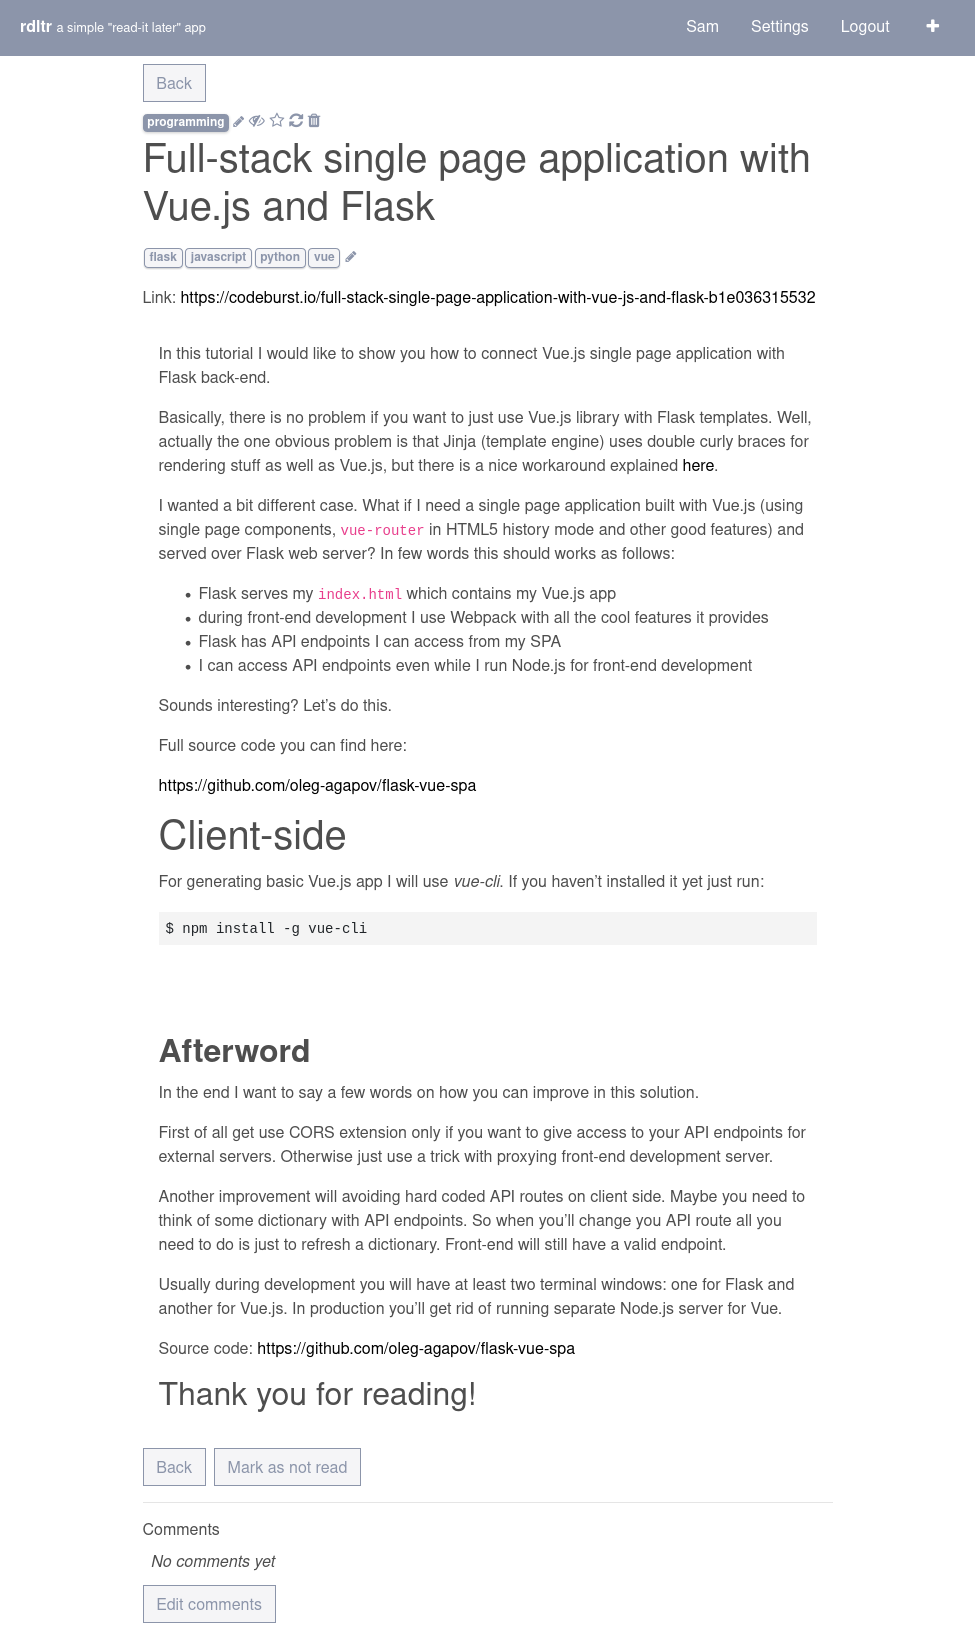
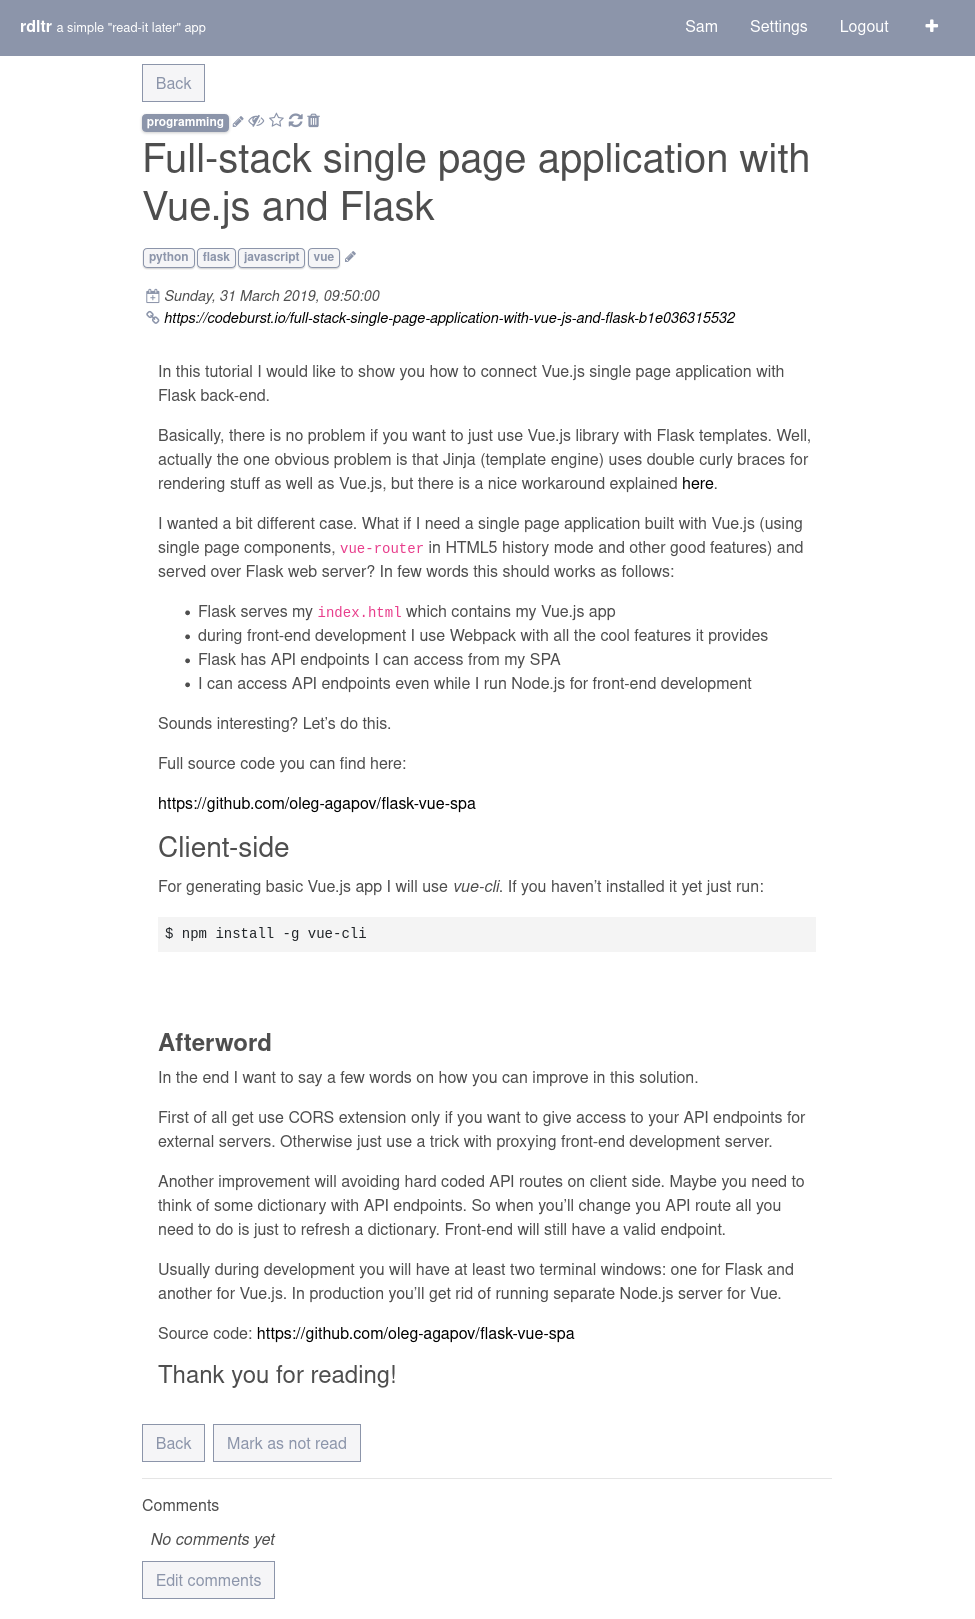
update documentation

diff --git a/docs/changelog.html b/docs/changelog.html
@@ -92,73 +92,80 @@
 <li class="toctree-l1"><a class="reference internal" href="features.html">Features</a></li>
 <li class="toctree-l1"><a class="reference internal" href="installation.html">Installation</a></li>
 <li class="toctree-l1 current"><a class="current reference internal" href="#">Changelog</a><ul>
-<li class="toctree-l2"><a class="reference internal" href="#version-0-1-10-2020-03-15">Version 0.1.10 (2020/03/15)</a><ul>
+<li class="toctree-l2"><a class="reference internal" href="#version-0-1-11-2020-12-26">Version 0.1.11 (2020/12/26)</a><ul>
 <li class="toctree-l3"><a class="reference internal" href="#issues-closed">Issues Closed</a><ul>
 <li class="toctree-l4"><a class="reference internal" href="#new-features">New Features</a></li>
 </ul>
 </li>
 </ul>
 </li>
-<li class="toctree-l2"><a class="reference internal" href="#version-0-1-9-2020-01-22">Version 0.1.9 (2020/01/22)</a><ul>
+<li class="toctree-l2"><a class="reference internal" href="#version-0-1-10-2020-03-15">Version 0.1.10 (2020/03/15)</a><ul>
 <li class="toctree-l3"><a class="reference internal" href="#id1">Issues Closed</a><ul>
 <li class="toctree-l4"><a class="reference internal" href="#id2">New Features</a></li>
+</ul>
+</li>
+</ul>
+</li>
+<li class="toctree-l2"><a class="reference internal" href="#version-0-1-9-2020-01-22">Version 0.1.9 (2020/01/22)</a><ul>
+<li class="toctree-l3"><a class="reference internal" href="#id3">Issues Closed</a><ul>
+<li class="toctree-l4"><a class="reference internal" href="#id4">New Features</a></li>
 <li class="toctree-l4"><a class="reference internal" href="#bugs-fixed">Bugs Fixed</a></li>
 </ul>
 </li>
 </ul>
 </li>
 <li class="toctree-l2"><a class="reference internal" href="#version-0-1-8-2020-01-20">Version 0.1.8 (2020/01/20)</a><ul>
-<li class="toctree-l3"><a class="reference internal" href="#id3">Issues Closed</a><ul>
-<li class="toctree-l4"><a class="reference internal" href="#id4">New Features</a></li>
+<li class="toctree-l3"><a class="reference internal" href="#id5">Issues Closed</a><ul>
+<li class="toctree-l4"><a class="reference internal" href="#id6">New Features</a></li>
 </ul>
 </li>
 </ul>
 </li>
 <li class="toctree-l2"><a class="reference internal" href="#version-0-1-7-2020-01-15">Version 0.1.7 (2020/01/15)</a><ul>
-<li class="toctree-l3"><a class="reference internal" href="#id5">Issues Closed</a><ul>
-<li class="toctree-l4"><a class="reference internal" href="#id6">New Features</a></li>
-<li class="toctree-l4"><a class="reference internal" href="#id7">Bugs Fixed</a></li>
+<li class="toctree-l3"><a class="reference internal" href="#id7">Issues Closed</a><ul>
+<li class="toctree-l4"><a class="reference internal" href="#id8">New Features</a></li>
+<li class="toctree-l4"><a class="reference internal" href="#id9">Bugs Fixed</a></li>
 </ul>
 </li>
 </ul>
 </li>
 <li class="toctree-l2"><a class="reference internal" href="#version-0-1-6-2020-01-10">Version 0.1.6 (2020/01/10)</a><ul>
-<li class="toctree-l3"><a class="reference internal" href="#id8">Issues Closed</a><ul>
-<li class="toctree-l4"><a class="reference internal" href="#id9">New Features</a></li>
+<li class="toctree-l3"><a class="reference internal" href="#id10">Issues Closed</a><ul>
+<li class="toctree-l4"><a class="reference internal" href="#id11">New Features</a></li>
 </ul>
 </li>
 </ul>
 </li>
 <li class="toctree-l2"><a class="reference internal" href="#version-0-1-5-2019-12-25">Version 0.1.5 (2019/12/25)</a><ul>
-<li class="toctree-l3"><a class="reference internal" href="#id10">Issues Closed</a><ul>
-<li class="toctree-l4"><a class="reference internal" href="#id11">New Features</a></li>
-<li class="toctree-l4"><a class="reference internal" href="#id12">Bugs Fixed</a></li>
+<li class="toctree-l3"><a class="reference internal" href="#id12">Issues Closed</a><ul>
+<li class="toctree-l4"><a class="reference internal" href="#id13">New Features</a></li>
+<li class="toctree-l4"><a class="reference internal" href="#id14">Bugs Fixed</a></li>
 </ul>
 </li>
 </ul>
 </li>
 <li class="toctree-l2"><a class="reference internal" href="#version-0-1-4-2019-12-08">Version 0.1.4 (2019/12/08)</a><ul>
-<li class="toctree-l3"><a class="reference internal" href="#id13">Issues Closed</a><ul>
-<li class="toctree-l4"><a class="reference internal" href="#id14">New Features</a></li>
-<li class="toctree-l4"><a class="reference internal" href="#id15">Bugs Fixed</a></li>
+<li class="toctree-l3"><a class="reference internal" href="#id15">Issues Closed</a><ul>
+<li class="toctree-l4"><a class="reference internal" href="#id16">New Features</a></li>
+<li class="toctree-l4"><a class="reference internal" href="#id17">Bugs Fixed</a></li>
 </ul>
 </li>
 </ul>
 </li>
 <li class="toctree-l2"><a class="reference internal" href="#version-0-1-3-2019-04-07">Version 0.1.3 (2019/04/07)</a><ul>
-<li class="toctree-l3"><a class="reference internal" href="#id16">Issues Closed</a><ul>
-<li class="toctree-l4"><a class="reference internal" href="#id17">New Features</a></li>
-<li class="toctree-l4"><a class="reference internal" href="#id18">Bugs Fixed</a></li>
+<li class="toctree-l3"><a class="reference internal" href="#id18">Issues Closed</a><ul>
+<li class="toctree-l4"><a class="reference internal" href="#id19">New Features</a></li>
+<li class="toctree-l4"><a class="reference internal" href="#id20">Bugs Fixed</a></li>
 </ul>
 </li>
 </ul>
 </li>
 <li class="toctree-l2"><a class="reference internal" href="#version-0-1-2-2019-03-31">Version 0.1.2 (2019/03/31)</a><ul>
-<li class="toctree-l3"><a class="reference internal" href="#id19">Bugs Fixed</a></li>
+<li class="toctree-l3"><a class="reference internal" href="#id21">Bugs Fixed</a></li>
 </ul>
 </li>
 <li class="toctree-l2"><a class="reference internal" href="#version-0-1-1-2019-03-30">Version 0.1.1 (2019/03/30)</a><ul>
-<li class="toctree-l3"><a class="reference internal" href="#id20">New Features</a></li>
+<li class="toctree-l3"><a class="reference internal" href="#id22">New Features</a></li>
 </ul>
 </li>
 <li class="toctree-l2"><a class="reference internal" href="#version-0-1-0-2019-03-30">Version 0.1.0 (2019/03/30)</a></li>
@@ -231,12 +238,25 @@
             
   <div class="section" id="changelog">
 <h1>Changelog<a class="headerlink" href="#changelog" title="Permalink to this headline">¶</a></h1>
-<div class="section" id="version-0-1-10-2020-03-15">
-<h2>Version 0.1.10 (2020/03/15)<a class="headerlink" href="#version-0-1-10-2020-03-15" title="Permalink to this headline">¶</a></h2>
+<div class="section" id="version-0-1-11-2020-12-26">
+<h2>Version 0.1.11 (2020/12/26)<a class="headerlink" href="#version-0-1-11-2020-12-26" title="Permalink to this headline">¶</a></h2>
 <div class="section" id="issues-closed">
 <h3>Issues Closed<a class="headerlink" href="#issues-closed" title="Permalink to this headline">¶</a></h3>
 <div class="section" id="new-features">
 <h4>New Features<a class="headerlink" href="#new-features" title="Permalink to this headline">¶</a></h4>
+<ul class="simple">
+<li><p><a class="reference external" href="https://github.com/SamR1/rdltr/issues/25">#25</a> - display article creation date</p></li>
+</ul>
+<p>In this release 1 issue was closed.</p>
+</div>
+</div>
+</div>
+<div class="section" id="version-0-1-10-2020-03-15">
+<h2>Version 0.1.10 (2020/03/15)<a class="headerlink" href="#version-0-1-10-2020-03-15" title="Permalink to this headline">¶</a></h2>
+<div class="section" id="id1">
+<h3>Issues Closed<a class="headerlink" href="#id1" title="Permalink to this headline">¶</a></h3>
+<div class="section" id="id2">
+<h4>New Features<a class="headerlink" href="#id2" title="Permalink to this headline">¶</a></h4>
 <ul class="simple">
 <li><p><a class="reference external" href="https://github.com/SamR1/rdltr/issues/21">#21</a> - remove tracking from article url</p></li>
 </ul>
@@ -246,10 +266,10 @@
 </div>
 <div class="section" id="version-0-1-9-2020-01-22">
 <h2>Version 0.1.9 (2020/01/22)<a class="headerlink" href="#version-0-1-9-2020-01-22" title="Permalink to this headline">¶</a></h2>
-<div class="section" id="id1">
-<h3>Issues Closed<a class="headerlink" href="#id1" title="Permalink to this headline">¶</a></h3>
-<div class="section" id="id2">
-<h4>New Features<a class="headerlink" href="#id2" title="Permalink to this headline">¶</a></h4>
+<div class="section" id="id3">
+<h3>Issues Closed<a class="headerlink" href="#id3" title="Permalink to this headline">¶</a></h3>
+<div class="section" id="id4">
+<h4>New Features<a class="headerlink" href="#id4" title="Permalink to this headline">¶</a></h4>
 <ul class="simple">
 <li><p><a class="reference external" href="https://github.com/SamR1/rdltr/issues/20">#20</a> - reset filters</p></li>
 </ul>
@@ -265,10 +285,10 @@
 </div>
 <div class="section" id="version-0-1-8-2020-01-20">
 <h2>Version 0.1.8 (2020/01/20)<a class="headerlink" href="#version-0-1-8-2020-01-20" title="Permalink to this headline">¶</a></h2>
-<div class="section" id="id3">
-<h3>Issues Closed<a class="headerlink" href="#id3" title="Permalink to this headline">¶</a></h3>
-<div class="section" id="id4">
-<h4>New Features<a class="headerlink" href="#id4" title="Permalink to this headline">¶</a></h4>
+<div class="section" id="id5">
+<h3>Issues Closed<a class="headerlink" href="#id5" title="Permalink to this headline">¶</a></h3>
+<div class="section" id="id6">
+<h4>New Features<a class="headerlink" href="#id6" title="Permalink to this headline">¶</a></h4>
 <ul class="simple">
 <li><p><a class="reference external" href="https://github.com/SamR1/rdltr/issues/18">#18</a> - improve navigation</p></li>
 <li><p><a class="reference external" href="https://github.com/SamR1/rdltr/issues/17">#17</a> - display number of articles for each category and tag</p></li>
@@ -281,16 +301,16 @@
 </div>
 <div class="section" id="version-0-1-7-2020-01-15">
 <h2>Version 0.1.7 (2020/01/15)<a class="headerlink" href="#version-0-1-7-2020-01-15" title="Permalink to this headline">¶</a></h2>
-<div class="section" id="id5">
-<h3>Issues Closed<a class="headerlink" href="#id5" title="Permalink to this headline">¶</a></h3>
-<div class="section" id="id6">
-<h4>New Features<a class="headerlink" href="#id6" title="Permalink to this headline">¶</a></h4>
+<div class="section" id="id7">
+<h3>Issues Closed<a class="headerlink" href="#id7" title="Permalink to this headline">¶</a></h3>
+<div class="section" id="id8">
+<h4>New Features<a class="headerlink" href="#id8" title="Permalink to this headline">¶</a></h4>
 <ul class="simple">
 <li><p><a class="reference external" href="https://github.com/SamR1/rdltr/issues/15">#15</a> - improve documentation</p></li>
 </ul>
 </div>
-<div class="section" id="id7">
-<h4>Bugs Fixed<a class="headerlink" href="#id7" title="Permalink to this headline">¶</a></h4>
+<div class="section" id="id9">
+<h4>Bugs Fixed<a class="headerlink" href="#id9" title="Permalink to this headline">¶</a></h4>
 <ul class="simple">
 <li><p><a class="reference external" href="https://github.com/SamR1/rdltr/issues/16">#16</a> - cannot get favorite articles anymore</p></li>
 </ul>
@@ -300,10 +320,10 @@
 </div>
 <div class="section" id="version-0-1-6-2020-01-10">
 <h2>Version 0.1.6 (2020/01/10)<a class="headerlink" href="#version-0-1-6-2020-01-10" title="Permalink to this headline">¶</a></h2>
-<div class="section" id="id8">
-<h3>Issues Closed<a class="headerlink" href="#id8" title="Permalink to this headline">¶</a></h3>
-<div class="section" id="id9">
-<h4>New Features<a class="headerlink" href="#id9" title="Permalink to this headline">¶</a></h4>
+<div class="section" id="id10">
+<h3>Issues Closed<a class="headerlink" href="#id10" title="Permalink to this headline">¶</a></h3>
+<div class="section" id="id11">
+<h4>New Features<a class="headerlink" href="#id11" title="Permalink to this headline">¶</a></h4>
 <ul class="simple">
 <li><p><a class="reference external" href="https://github.com/SamR1/rdltr/issues/8">#8</a> - Scrape from browser DOM</p></li>
 </ul>
@@ -313,17 +333,17 @@
 </div>
 <div class="section" id="version-0-1-5-2019-12-25">
 <h2>Version 0.1.5 (2019/12/25)<a class="headerlink" href="#version-0-1-5-2019-12-25" title="Permalink to this headline">¶</a></h2>
-<div class="section" id="id10">
-<h3>Issues Closed<a class="headerlink" href="#id10" title="Permalink to this headline">¶</a></h3>
-<div class="section" id="id11">
-<h4>New Features<a class="headerlink" href="#id11" title="Permalink to this headline">¶</a></h4>
+<div class="section" id="id12">
+<h3>Issues Closed<a class="headerlink" href="#id12" title="Permalink to this headline">¶</a></h3>
+<div class="section" id="id13">
+<h4>New Features<a class="headerlink" href="#id13" title="Permalink to this headline">¶</a></h4>
 <ul class="simple">
 <li><p><a class="reference external" href="https://github.com/SamR1/rdltr/issues/13">#13</a> - add an article via a share link</p></li>
 <li><p><a class="reference external" href="https://github.com/SamR1/rdltr/issues/12">#12</a> - add redirection after login</p></li>
 </ul>
 </div>
-<div class="section" id="id12">
-<h4>Bugs Fixed<a class="headerlink" href="#id12" title="Permalink to this headline">¶</a></h4>
+<div class="section" id="id14">
+<h4>Bugs Fixed<a class="headerlink" href="#id14" title="Permalink to this headline">¶</a></h4>
 <ul class="simple">
 <li><p><a class="reference external" href="https://github.com/SamR1/rdltr/issues/14">#14</a> - some articles still have encoding issues</p></li>
 </ul>
@@ -333,17 +353,17 @@
 </div>
 <div class="section" id="version-0-1-4-2019-12-08">
 <h2>Version 0.1.4 (2019/12/08)<a class="headerlink" href="#version-0-1-4-2019-12-08" title="Permalink to this headline">¶</a></h2>
-<div class="section" id="id13">
-<h3>Issues Closed<a class="headerlink" href="#id13" title="Permalink to this headline">¶</a></h3>
-<div class="section" id="id14">
-<h4>New Features<a class="headerlink" href="#id14" title="Permalink to this headline">¶</a></h4>
+<div class="section" id="id15">
+<h3>Issues Closed<a class="headerlink" href="#id15" title="Permalink to this headline">¶</a></h3>
+<div class="section" id="id16">
+<h4>New Features<a class="headerlink" href="#id16" title="Permalink to this headline">¶</a></h4>
 <ul class="simple">
 <li><p><a class="reference external" href="https://github.com/SamR1/rdltr/issues/4">#4</a> - add favorites</p></li>
 <li><p><a class="reference external" href="https://github.com/SamR1/rdltr/issues/3">#3</a> - add a confirmation before deleting an article</p></li>
 </ul>
 </div>
-<div class="section" id="id15">
-<h4>Bugs Fixed<a class="headerlink" href="#id15" title="Permalink to this headline">¶</a></h4>
+<div class="section" id="id17">
+<h4>Bugs Fixed<a class="headerlink" href="#id17" title="Permalink to this headline">¶</a></h4>
 <ul class="simple">
 <li><p><a class="reference external" href="https://github.com/SamR1/rdltr/issues/11">#11</a> - incorrect encoding on some articles</p></li>
 </ul>
@@ -353,16 +373,16 @@
 </div>
 <div class="section" id="version-0-1-3-2019-04-07">
 <h2>Version 0.1.3 (2019/04/07)<a class="headerlink" href="#version-0-1-3-2019-04-07" title="Permalink to this headline">¶</a></h2>
-<div class="section" id="id16">
-<h3>Issues Closed<a class="headerlink" href="#id16" title="Permalink to this headline">¶</a></h3>
-<div class="section" id="id17">
-<h4>New Features<a class="headerlink" href="#id17" title="Permalink to this headline">¶</a></h4>
+<div class="section" id="id18">
+<h3>Issues Closed<a class="headerlink" href="#id18" title="Permalink to this headline">¶</a></h3>
+<div class="section" id="id19">
+<h4>New Features<a class="headerlink" href="#id19" title="Permalink to this headline">¶</a></h4>
 <ul class="simple">
 <li><p><a class="reference external" href="https://github.com/SamR1/rdltr/issues/7">#7</a> - add possibility to reload an article</p></li>
 </ul>
 </div>
-<div class="section" id="id18">
-<h4>Bugs Fixed<a class="headerlink" href="#id18" title="Permalink to this headline">¶</a></h4>
+<div class="section" id="id20">
+<h4>Bugs Fixed<a class="headerlink" href="#id20" title="Permalink to this headline">¶</a></h4>
 <ul class="simple">
 <li><p><a class="reference external" href="https://github.com/SamR1/rdltr/issues/5">#5</a> - some articles can’t be downloaded</p></li>
 <li><p><a class="reference external" href="https://github.com/SamR1/rdltr/issues/2">#2</a> - can’t access the second page when filtering on a tag</p></li>
@@ -373,8 +393,8 @@
 </div>
 <div class="section" id="version-0-1-2-2019-03-31">
 <h2>Version 0.1.2 (2019/03/31)<a class="headerlink" href="#version-0-1-2-2019-03-31" title="Permalink to this headline">¶</a></h2>
-<div class="section" id="id19">
-<h3>Bugs Fixed<a class="headerlink" href="#id19" title="Permalink to this headline">¶</a></h3>
+<div class="section" id="id21">
+<h3>Bugs Fixed<a class="headerlink" href="#id21" title="Permalink to this headline">¶</a></h3>
 <ul class="simple">
 <li><p><a class="reference external" href="https://github.com/SamR1/rdltr/issues/1">#1</a> - API URL can’t be changed</p></li>
 </ul>
@@ -383,8 +403,8 @@
 </div>
 <div class="section" id="version-0-1-1-2019-03-30">
 <h2>Version 0.1.1 (2019/03/30)<a class="headerlink" href="#version-0-1-1-2019-03-30" title="Permalink to this headline">¶</a></h2>
-<div class="section" id="id20">
-<h3>New Features<a class="headerlink" href="#id20" title="Permalink to this headline">¶</a></h3>
+<div class="section" id="id22">
+<h3>New Features<a class="headerlink" href="#id22" title="Permalink to this headline">¶</a></h3>
 <ul class="simple">
 <li><p>rdltr is available on PyPI</p></li>
 </ul>

diff --git a/docs/searchindex.js b/docs/searchindex.js
@@ -1,1 +1,1 @@
-Search.setIndex({docnames:["changelog","features","index","installation"],envversion:{"sphinx.domains.c":2,"sphinx.domains.changeset":1,"sphinx.domains.citation":1,"sphinx.domains.cpp":3,"sphinx.domains.index":1,"sphinx.domains.javascript":2,"sphinx.domains.math":2,"sphinx.domains.python":2,"sphinx.domains.rst":2,"sphinx.domains.std":1,sphinx:56},filenames:["changelog.md","features.rst","index.rst","installation.rst"],objects:{},objnames:{},objtypes:{},terms:{"2019":2,"2020":2,"5000":3,"8080":3,"8427384":0,"default":[1,3],"export":3,"static":3,"true":3,The:1,access:0,add:[0,1],added:1,administr:1,ae01c14:0,after:0,allow:[1,3],anymor:0,api:0,app:3,applic:[2,3],articl:[0,2],avail:[0,1],backup:3,befor:[0,3],browser:[0,1],build:3,calcul:3,can:[0,1,2,3],cannot:0,categori:[0,1,2],chang:0,changelog:2,classifi:2,cli:3,clone:3,com:3,comment:1,config:3,configur:[1,3],confirm:0,connect:1,consol:3,content:[1,2],credenti:1,databas:3,defaut:3,delet:[0,1],descript:3,differ:1,disabl:1,displai:0,document:0,dom:0,download:0,each:0,encod:0,end:3,enter:1,environ:[1,3],exampl:1,exist:1,extens:2,fals:1,favorit:[0,1],featur:2,feed:1,file:3,filter:0,firefox:1,first:0,flask:2,follow:0,freshrss:1,from:[0,2],front:3,get:[0,1],git:3,github:3,gunicorn:3,have:0,host:3,hostabl:2,html:2,http:3,imag:1,improv:0,incomplet:1,incorrect:0,initi:[1,2,3],instal:[1,2],instanc:1,intend:1,item:1,kei:3,keyword:1,later:2,learn:2,link:[0,1],localhost:3,locat:3,log:3,login:0,lxml:2,make:3,makefil:3,mark:1,modifi:1,must:[1,3],navig:0,need:3,now:1,number:[0,3],one:1,onli:[0,1,3],open:3,organ:1,origin:1,other:2,overridden:3,packag:3,page:0,pars:2,pip:3,plan:1,point:1,port:3,possibl:[0,1],pre:1,prerequisit:2,print:3,productionconfig:3,project:2,pull:3,pypi:0,python:3,rdltr:[0,3],rdltr_allow_registr:[1,3],rdltr_db:3,rdltr_db_url:3,rdltr_host:3,rdltr_log:3,rdltr_port:3,rdltr_secret_kei:3,rdltr_set:3,rdltr_worker:3,rdtlr:1,read:[1,2],readabl:2,redirect:0,regist:1,registr:[1,3],relat:3,releas:0,reload:[0,1],remain:1,remov:0,repo:3,reset:0,resourc:1,restart:3,run:3,samr1:3,save:[1,2],scrape:[0,1],search:1,second:0,secret:3,see:1,select:1,self:2,serv:3,server:[1,3],set:2,share:[0,2],side:1,singl:1,small:2,some:0,spawn:3,specifi:1,sqlite:3,start:3,still:0,tag:[0,1,2],therefor:1,thi:[0,3],titl:1,track:0,truncat:1,unchang:1,updat:3,upgrad:2,url:[0,1],use:[1,3],used:[2,3],user:[2,3],uses:2,valu:3,variabl:[1,3],version:2,via:0,video:1,virtualenv:3,vue:[2,3],wallabag:1,web:2,were:0,when:0,worker:3,yarn:3,you:2},titles:["Changelog","Features","Welcome to rdltr\u2019s documentation!","Installation"],titleterms:{"2019":0,"2020":0,"new":0,applic:1,articl:1,bug:0,changelog:0,close:0,develop:3,document:2,extens:1,featur:[0,1],fix:0,from:[1,3],instal:3,issu:0,other:1,prerequisit:3,pypi:3,rdltr:[1,2],set:1,share:1,sourc:3,upgrad:3,user:1,version:0,web:1,welcom:2}})
+Search.setIndex({docnames:["changelog","features","index","installation"],envversion:{"sphinx.domains.c":2,"sphinx.domains.changeset":1,"sphinx.domains.citation":1,"sphinx.domains.cpp":3,"sphinx.domains.index":1,"sphinx.domains.javascript":2,"sphinx.domains.math":2,"sphinx.domains.python":2,"sphinx.domains.rst":2,"sphinx.domains.std":1,sphinx:56},filenames:["changelog.md","features.rst","index.rst","installation.rst"],objects:{},objnames:{},objtypes:{},terms:{"2019":2,"2020":2,"5000":3,"8080":3,"8427384":0,"default":[1,3],"export":3,"static":3,"true":3,The:1,access:0,add:[0,1],added:1,administr:1,ae01c14:0,after:0,allow:[1,3],anymor:0,api:0,app:3,applic:[2,3],articl:[0,2],avail:[0,1],backup:3,befor:[0,3],browser:[0,1],build:3,calcul:3,can:[0,1,2,3],cannot:0,categori:[0,1,2],chang:0,changelog:2,classifi:2,cli:3,clone:3,com:3,comment:1,config:3,configur:[1,3],confirm:0,connect:1,consol:3,content:[1,2],creation:0,credenti:1,databas:3,date:0,defaut:3,delet:[0,1],descript:3,differ:1,disabl:1,displai:0,document:0,dom:0,download:0,each:0,encod:0,end:3,enter:1,environ:[1,3],exampl:1,exist:1,extens:2,fals:1,favorit:[0,1],featur:2,feed:1,file:3,filter:0,firefox:1,first:0,flask:2,follow:0,freshrss:1,from:[0,2],front:3,get:[0,1],git:3,github:3,gunicorn:3,have:0,host:3,hostabl:2,html:2,http:3,imag:1,improv:0,incomplet:1,incorrect:0,initi:[1,2,3],instal:[1,2],instanc:1,intend:1,item:1,kei:3,keyword:1,later:2,learn:2,link:[0,1],localhost:3,locat:3,log:3,login:0,lxml:2,make:3,makefil:3,mark:1,modifi:1,must:[1,3],navig:0,need:3,now:1,number:[0,3],one:1,onli:[0,1,3],open:3,organ:1,origin:1,other:2,overridden:3,packag:3,page:0,pars:2,pip:3,plan:1,point:1,port:3,possibl:[0,1],pre:1,prerequisit:2,print:3,productionconfig:3,project:2,pull:3,pypi:0,python:3,rdltr:[0,3],rdltr_allow_registr:[1,3],rdltr_db:3,rdltr_db_url:3,rdltr_host:3,rdltr_log:3,rdltr_port:3,rdltr_secret_kei:3,rdltr_set:3,rdltr_worker:3,rdtlr:1,read:[1,2],readabl:2,redirect:0,regist:1,registr:[1,3],relat:3,releas:0,reload:[0,1],remain:1,remov:0,repo:3,reset:0,resourc:1,restart:3,run:3,samr1:3,save:[1,2],scrape:[0,1],search:1,second:0,secret:3,see:1,select:1,self:2,serv:3,server:[1,3],set:2,share:[0,2],side:1,singl:1,small:2,some:0,spawn:3,specifi:1,sqlite:3,start:3,still:0,tag:[0,1,2],therefor:1,thi:[0,3],titl:1,track:0,truncat:1,unchang:1,updat:3,upgrad:2,url:[0,1],use:[1,3],used:[2,3],user:[2,3],uses:2,valu:3,variabl:[1,3],version:2,via:0,video:1,virtualenv:3,vue:[2,3],wallabag:1,web:2,were:0,when:0,worker:3,yarn:3,you:2},titles:["Changelog","Features","Welcome to rdltr\u2019s documentation!","Installation"],titleterms:{"2019":0,"2020":0,"new":0,applic:1,articl:1,bug:0,changelog:0,close:0,develop:3,document:2,extens:1,featur:[0,1],fix:0,from:[1,3],instal:3,issu:0,other:1,prerequisit:3,pypi:3,rdltr:[1,2],set:1,share:1,sourc:3,upgrad:3,user:1,version:0,web:1,welcom:2}})

diff --git a/docs/index.html b/docs/index.html
@@ -185,6 +185,7 @@ content.</p>
 </ul>
 </li>
 <li class="toctree-l1"><a class="reference internal" href="changelog.html">Changelog</a><ul>
+<li class="toctree-l2"><a class="reference internal" href="changelog.html#version-0-1-11-2020-12-26">Version 0.1.11 (2020/12/26)</a></li>
 <li class="toctree-l2"><a class="reference internal" href="changelog.html#version-0-1-10-2020-03-15">Version 0.1.10 (2020/03/15)</a></li>
 <li class="toctree-l2"><a class="reference internal" href="changelog.html#version-0-1-9-2020-01-22">Version 0.1.9 (2020/01/22)</a></li>
 <li class="toctree-l2"><a class="reference internal" href="changelog.html#version-0-1-8-2020-01-20">Version 0.1.8 (2020/01/20)</a></li>

diff --git a/CHANGELOG.md b/CHANGELOG.md
@@ -1,5 +1,16 @@
 # Changelog
 
+## Version 0.1.11 (2020/12/26)
+
+### Issues Closed
+
+#### New Features
+
+* [#25](https://github.com/SamR1/rdltr/issues/25) - display article creation date
+
+In this release 1 issue was closed.
+
+
 ## Version 0.1.10 (2020/03/15)
 
 ### Issues Closed
